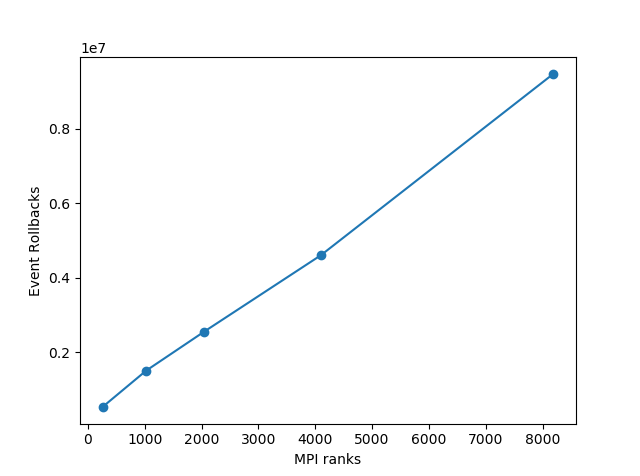
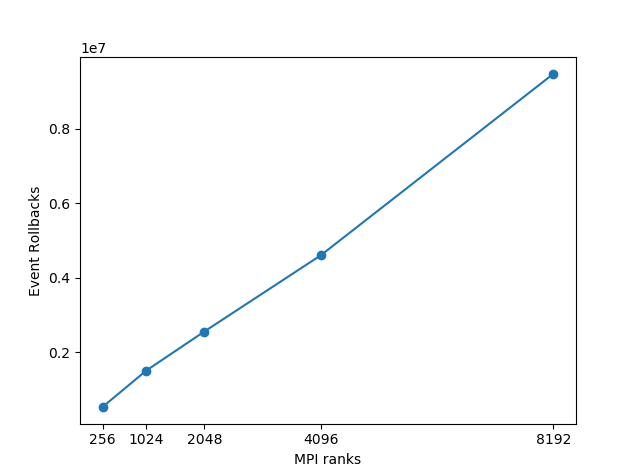
fixed labels on x axis

diff --git a/Results/plot_ranks.py b/Results/plot_ranks.py
@@ -12,15 +12,19 @@ for line in open(f_name):
 	x.append(float(sep[0]))
 	y.append(float(sep[1]))
 
-#plt.ylabel("Event Rate (Events per second)")
+plt.ylabel("Event Rate (Events per second)")
 #plt.ylabel("Execution Time (seconds)")
 #plt.ylabel("Event Rollbacks")
-plt.ylabel("Percent Efficiency (%)")
+#plt.ylabel("Total Rollbacks")
+#plt.ylabel("Percent Efficiency (%)")
 plt.xlabel("MPI ranks")
+
+plt.xticks(x,map(int,x))
 
 plt.plot(x, y, "-o")
 
-plt.ticklabel_format(style='sci', axis='y', scilimits=(0,0))
+
+
 plt.show()
 
 
